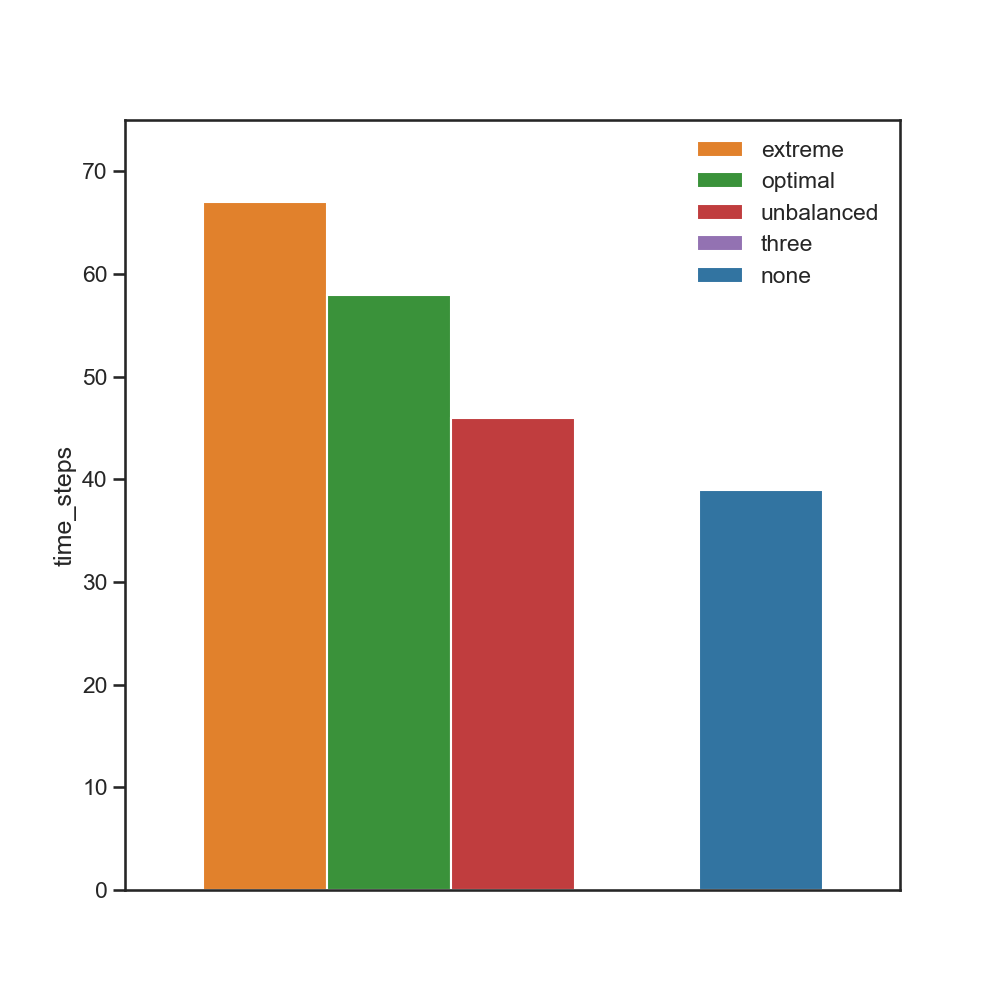
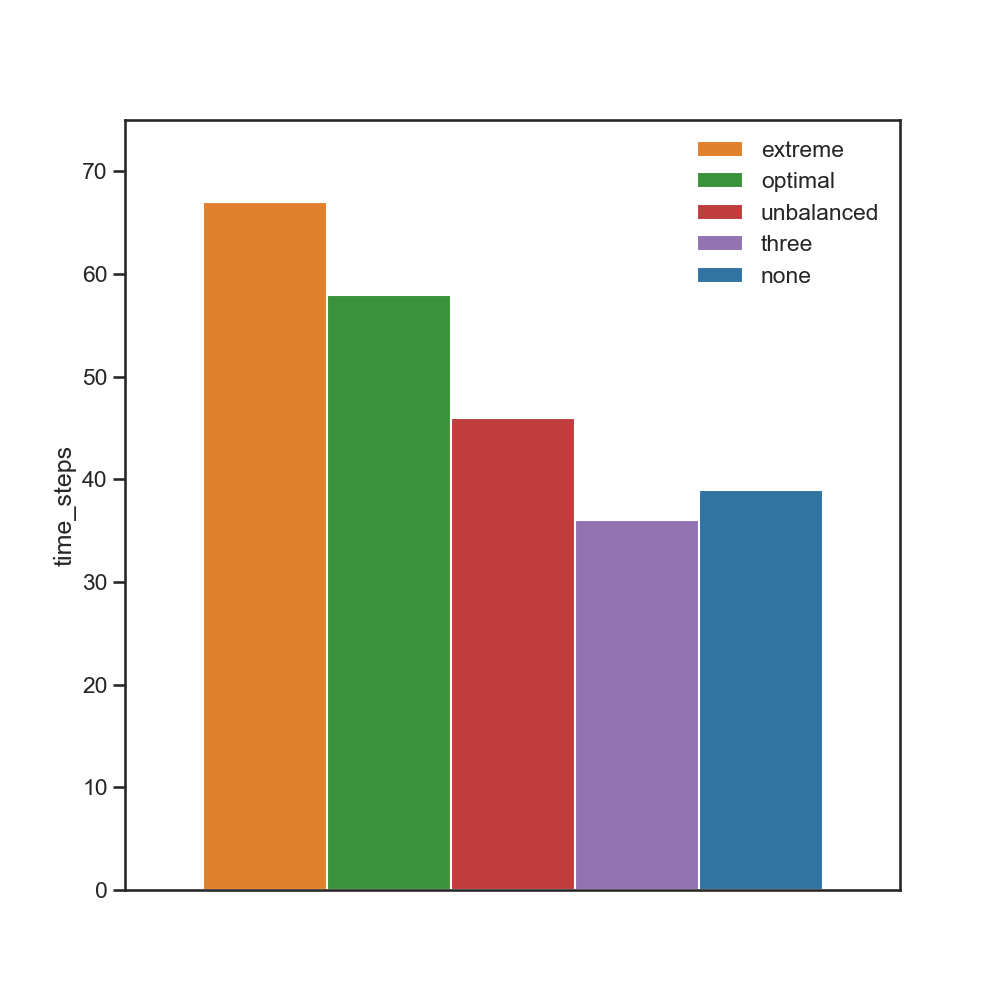
Ran CF Partial Three

Changed region(s): [[0.558, 0.496, 0.713, 0.899]]

diff --git a/gym_cooking/envs/overcooked_environment.py b/gym_cooking/envs/overcooked_environment.py
@@ -202,7 +202,7 @@ class OvercookedEnvironment(gym.Env):
             return [FryingWaiter(), ExceptionalChefMerger()]
         elif typeUsed == "three":
             if num_agents == 2:
-                return [ChoppingMerger(), MergingWaiter()]
+                return [ExceptionalChefMerger(), FryingMergingWaiter()]
             elif num_agents == 3:
                 return [ChoppingWaiter(), ExceptionalChefMerger(), MergingWaiter()]
 

diff --git a/gym_cooking/main.py b/gym_cooking/main.py
@@ -94,7 +94,7 @@ def roleAssignmentAlgorithm(typeUsed, num_agents):
         return [FryingWaiter(), ExceptionalChefMerger()]
     elif typeUsed == "three":
         if num_agents == 2:
-            return [ChoppingMerger(), MergingWaiter()]
+            return [ExceptionalChefMerger(), FryingMergingWaiter()]
         elif num_agents == 3:
             return [ChoppingWaiter(), ExceptionalChefMerger(), MergingWaiter()]
 
